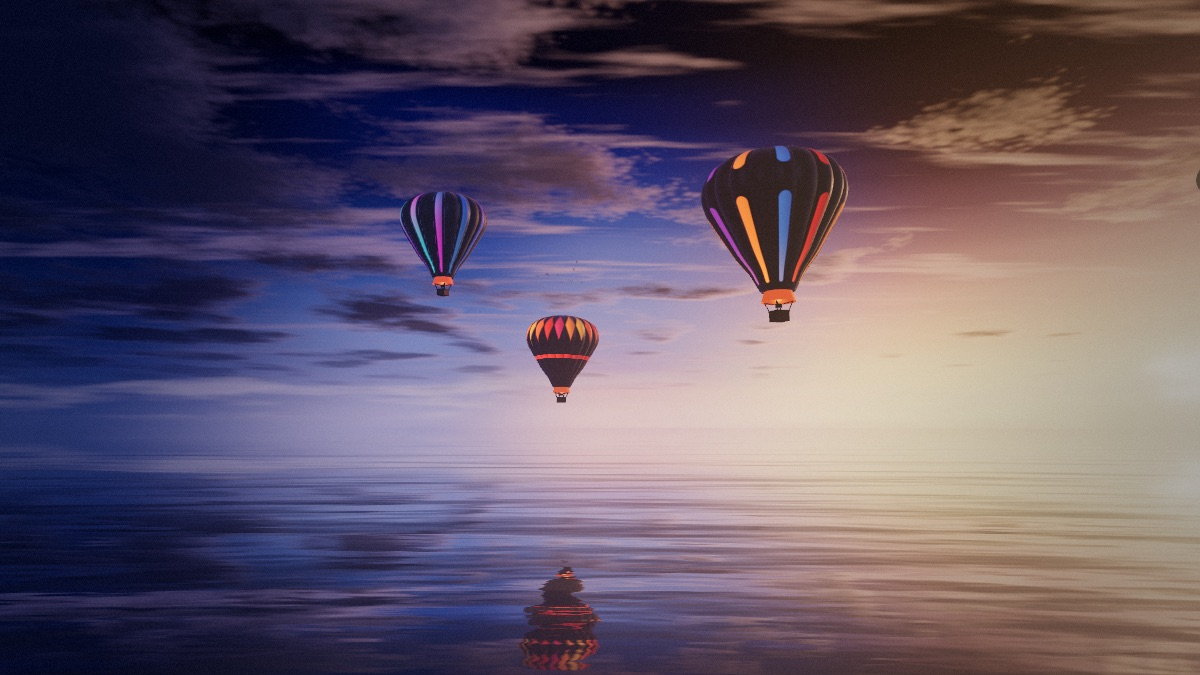
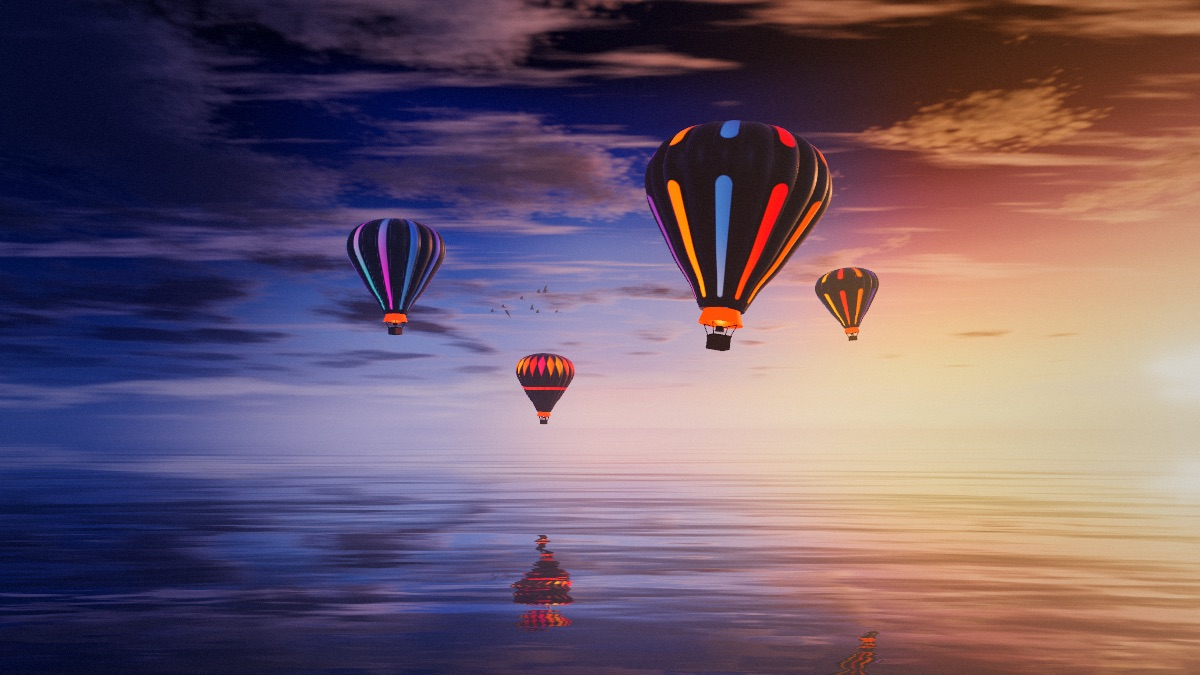
feat(balloon-pop): warmer sunset grade, visible bird flock, new cover
ACES greys out the bright sunset glow, so the finishing pass restores
saturation mostly in warm tones and the vignette is lighter; the sky
side now matches the reference's orange-gold instead of beige. The
flock flies nearer and larger so it reads as birds.

diff --git a/games/balloon-pop/src/post.js b/games/balloon-pop/src/post.js
@@ -1,5 +1,6 @@
 // Post-processing: HDR render, shock-wave refraction from each pop, bloom,
-// filmic (ACES) tone mapping, then a light vignette and film grain.
+// filmic (ACES) tone mapping, then a colour grade that gives back the
+// saturation ACES takes from a sunset, a light vignette and film grain.
 import * as THREE from 'three';
 import { EffectComposer } from 'three/addons/postprocessing/EffectComposer.js';
 import { RenderPass } from 'three/addons/postprocessing/RenderPass.js';
@@ -56,7 +57,9 @@ const FinishShader = {
     tDiffuse: { value: null },
     uTime: { value: 0 },
     uGrain: { value: 0.035 },
-    uVignette: { value: 0.32 },
+    uVignette: { value: 0.16 },
+    uSaturation: { value: 1.08 },
+    uWarmSaturation: { value: 1.65 },
     uAspect: { value: 1 },
   },
   vertexShader: DistortShader.vertexShader,
@@ -65,11 +68,17 @@ uniform sampler2D tDiffuse;
 uniform float uTime;
 uniform float uGrain;
 uniform float uVignette;
+uniform float uSaturation;
+uniform float uWarmSaturation;
 uniform float uAspect;
 varying vec2 vUv;
 float hash(vec2 p) { return fract(sin(dot(p, vec2(12.9898, 78.233)) + uTime * 7.13) * 43758.5453); }
 void main() {
   vec4 c = texture2D(tDiffuse, vUv);
+  // ACES greys out the bright warm glow most, so warm tones get more back
+  float l = dot(c.rgb, vec3(0.2126, 0.7152, 0.0722));
+  float warm = smoothstep(0.02, 0.2, c.r - c.b);
+  c.rgb = clamp(mix(vec3(l), c.rgb, mix(uSaturation, uWarmSaturation, warm)), 0.0, 1.0);
   vec2 d = vUv - 0.5;
   d.x *= mix(1.0, uAspect, 0.5);
   float v = 1.0 - uVignette * smoothstep(0.25, 0.95, length(d) * 1.2);

diff --git a/games/balloon-pop/src/birds.js b/games/balloon-pop/src/birds.js
@@ -63,7 +63,7 @@ transformed.x -= abs(flap) * aWing * 0.08;`,
 
   reset(first = false) {
     // enter from the right, fly left, far out over the water
-    const z = -170 - Math.random() * 90;
+    const z = -130 - Math.random() * 60;
     this.center.set(first ? 20 + Math.random() * 25 : 150 + Math.random() * 40, 34 + Math.random() * 22, z);
     this.speed = 5.5 + Math.random() * 2;
   }
@@ -81,7 +81,7 @@ transformed.x -= abs(flap) * aWing * 0.08;`,
         this.center.z + o.z,
       );
       this.dummy.rotation.set(0, Math.PI, Math.sin(t * 0.7 + i) * 0.08);
-      this.dummy.scale.setScalar(1.25);
+      this.dummy.scale.setScalar(2.6);
       this.dummy.updateMatrix();
       this.mesh.setMatrixAt(i, this.dummy.matrix);
     }
